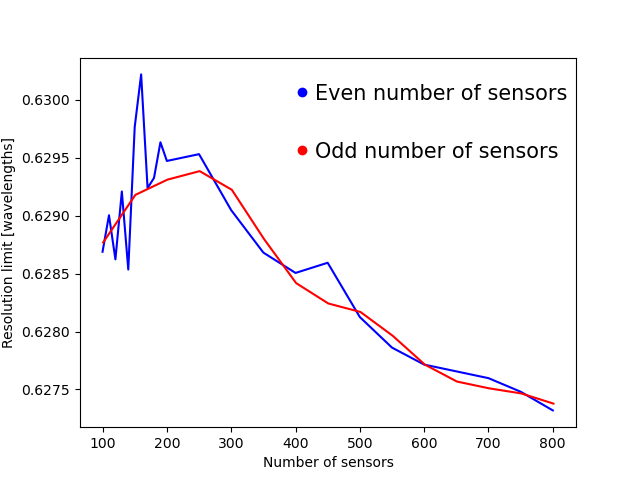
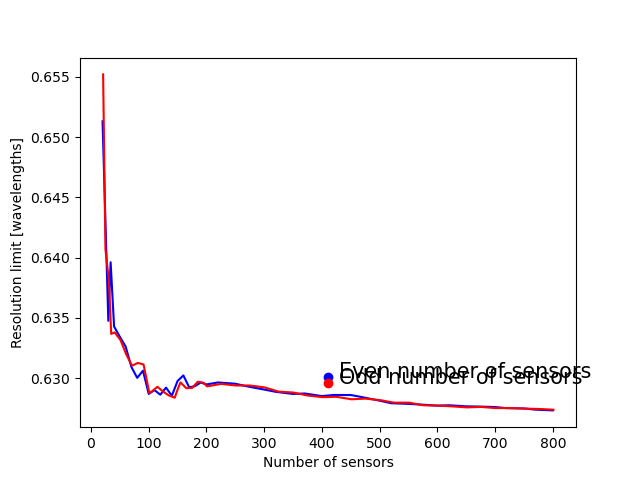
Bug fix

diff --git a/Time_reversal/find_resolution_limit.py b/Time_reversal/find_resolution_limit.py
@@ -125,30 +125,35 @@ def find_resolution_limit(paths,plot_extrema=False):
             else:
                 continue
 
-def plot_resolution_limit(file):
-    f = open(file, "r")
-    sensors = [100,200,400,600,800]
-    rayleigh = []
-    dist = []
-    for line in f:
-        words = []
-        for word in line.split("/"):
-            words.append(word)
-
-        pos_1 = words[-1].split("__")[0].split(" ")
-        pos_1[0] = pos_1[0].replace('[',' ')
-        pos_1[-1] = pos_1[-1].replace(']',' ')
-
-        pos_2 = words[-1].split("__")[-1].split(" ")[0:3]
-        pos_2[0] = pos_2[0].replace('[',' ')
-        pos_2[-1] = pos_2[-1].replace(']',' ')
-
-        x_1,y_1,z_1 = float(pos_1[0]), float(pos_1[1]), float(pos_1[2])
-        x_2, y_2, z_2 = float(pos_2[0]), float(pos_2[1]), float(pos_2[2])
-        d = np.sqrt((x_2-x_1)**2 + (z_2-z_1)**2 + (z_2-z_1)**2)
-        dist.append(d)
-    plt.plot(sensors,dist)
-    plt.show()
+# def plot_resolution_limit(file):
+#     f = open(file, "r")
+#     sensors = [100,200,400,600,800]
+#     rayleigh = []
+#     dist = []
+#     for line in f:
+#         words = []
+#         for word in line.split("/"):
+#             words.append(word)
+#
+#         pos_1 = words[-1].split("__")[0].split(" ")
+#         pos_1[0] = pos_1[0].replace('[',' ')
+#         pos_1[-1] = pos_1[-1].replace(']',' ')
+#
+#         pos_2 = words[-1].split("__")[-1].split(" ")[0:3]
+#         pos_2[0] = pos_2[0].replace('[',' ')
+#         pos_2[-1] = pos_2[-1].replace(']',' ')
+#
+#         x_1,y_1,z_1 = float(pos_1[0]), float(pos_1[1]), float(pos_1[2])
+#         x_2, y_2, z_2 = float(pos_2[0]), float(pos_2[1]), float(pos_2[2])
+#         d = np.sqrt((x_2-x_1)**2 + (z_2-z_1)**2 + (z_2-z_1)**2)
+#         dist.append(d)
+#
+#     print(sensors)
+#     print(dist)
+#     exit()
+#
+#     plt.plot(sensors,dist)
+#     plt.show()
 
 def plot_resolution_limit():
     dists = []
@@ -195,6 +200,15 @@ def plot_resolution_limit():
                 parallel_odd.append(dist)
                 parallel_odd_sen.append(sensors[i])
 
+
+    orthogonal_even_sen, orthogonal_even = zip(*sorted(zip(orthogonal_even_sen, orthogonal_even)))
+    orthogonal_even_sen = orthogonal_even_sen[:1]+orthogonal_even_sen[2:]
+    orthogonal_even = orthogonal_even[:1]+orthogonal_even[2:]
+    orthogonal_odd_sen, orthogonal_odd = zip(*sorted(zip(orthogonal_odd_sen, orthogonal_odd)))
+    parallel_even_sen, parallel_even = zip(*sorted(zip(parallel_even_sen, parallel_even)))
+    parallel_odd_sen, parallel_odd = zip(*sorted(zip(parallel_odd_sen, parallel_odd)))
+
+
     plt.plot(orthogonal_even_sen,orthogonal_even,'b')
     plt.plot(orthogonal_odd_sen,orthogonal_odd,'r')
     plt.text(430, 0.63, 'Even number of sensors', fontsize=15,  color='black')
@@ -220,7 +234,7 @@ def plot_resolution_limit_wl():
     dists = []
     paths = []
     sensors = []
-    f = open("resolution_2.txt", "r")
+    f = open("resolution.txt", "r")
     for element in f:
         pos = element.split('/')[-1]
         x_1 = float(pos.split(' ')[0].replace('[',''))
@@ -278,7 +292,8 @@ def find_reyleigh(path):
         dist = np.sqrt((x_2-x_1)**2+(y_2-y_1)**2+(z_2-z_1)**2)
         dists.append(dist)
 
-    plt.plot(dists,reyleigh)
+    plt.plot(dists[:30],reyleigh[:30])
+    plt.axhline(0.735,c='r',ls=':')
     plt.xlabel('Distance [wavelengths]')
     plt.ylabel('Intensity difference')
     plt.savefig('rayleigh')
@@ -287,5 +302,5 @@ def find_reyleigh(path):
 
 # paths = find_direcories("C:/Python/Master (Fishbowl)/Images")
 # find_resolution_limit(paths)
-# plot_resolution_limit()
+plot_resolution_limit()
 # find_reyleigh('C:/Python\Master (Fishbowl)/Images/Orthogonal_dipoles/Symmetric_around_0/2_dipoles__500_sensors')

diff --git a/Time_reversal/main.py b/Time_reversal/main.py
@@ -184,13 +184,20 @@ def coverge_resolution_limit(subdir,subsubdir,N_sensors,FoV,N_reconstruction, k_
 # for N_sensors in [20,21,24,25,30,31,34,35,40,41,50,51,60,61,70,71,80,81,90,91,105,115,125,135,145,155,165,175,185,195,220,225,270,275,320,325,370,375,420,425,470,475,520,525,570,575,620,625,670,675,720,725,770,775]:
 #     coverge_resolution_limit(subdirect,subsubdirect,N_sensors,FoV,N_reconstruction,k_0)
 
-subdirect = 'Parallel_dipoles'
+subdirect = 'Orthogonal_dipoles'
 subsubdirect = 'Symmetric_around_0'
 N_reconstruction = 100
 # N_sensors = 100
 FoV = 4*lambda_0
-for N_sensors in [20,21,24,25,30,31,34,35,40,41,50,51,60,61,70,71,80,81,90,91,105,115,125,135,145,155,165,175,185,195,220,225,270,275,320,325,370,375,420,425,470,475,520,525,570,575,620,625,670,675,720,725,770,775]:
-    coverge_resolution_limit(subdirect,subsubdirect,N_sensors,FoV,N_reconstruction,k_0)
+# for N_sensors in [20,21,24,25,30,31,34,35,40,41,50,51,60,61,70,71,80,81,90,91,105,115,125,135,145,155,165,175,185,195,220,225,270,275,320,325,370,375,420,425,470,475,520,525,570,575,620,625,670,675,720,725,770,775]:
+    # coverge_resolution_limit(subdirect,subsubdirect,N_sensors,FoV,N_reconstruction,k_0)
+N_sensors = 500
+polarization = np.array([[1,0,0],[0,0,1]])
+for x in [0.15*lambda_0,0.20*lambda_0,0.25*lambda_0]:
+    dipole_pos = np.array([[-x,0,0],[x,0,0]])
+    reconstruct_image(dipole_pos, polarization, subdirect, subsubdirect, FoV, k_0, N_sensors, N_reconstruction)
+
+
 
 # paths = find_direcories()
 # res = []
